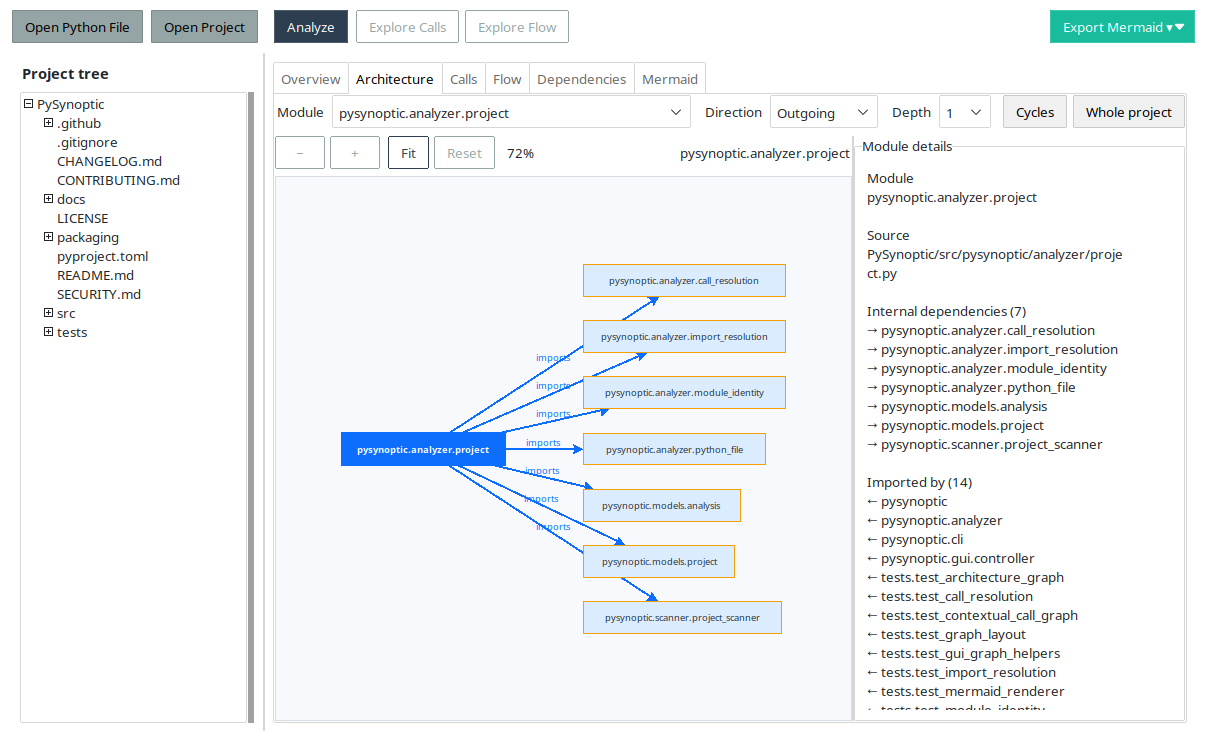
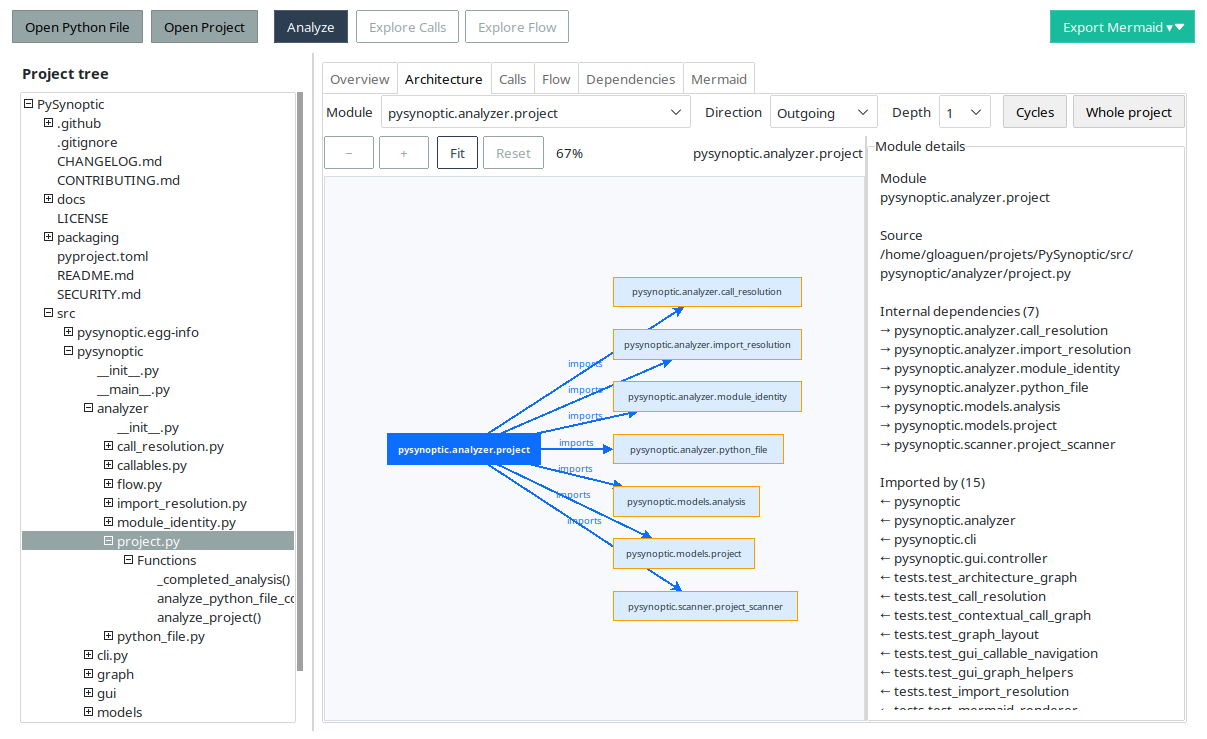
docs: refresh v0.1.0 screenshots

Changed region(s): [[0.0, 0.0934, 0.6744, 0.9959], [0.5518, 0.1867, 0.9503, 0.9648]]

diff --git a/README.md b/README.md
@@ -85,8 +85,8 @@ references remain visible as diagnostics rather than speculative links.
 Flow explains the structure inside one callable. It represents `if`/`else`,
 `for`/`while`, `try`/`except`/`finally`, `break`, `continue`, `raise`, `return`,
 and call steps. Labeled transitions distinguish branches, loop backs, exception
-paths, and exits. This view of `_add_argument_bindings()` exposes two loops and
-a conditional without expanding the rest of the project.
+paths, and exits. This view of `analyze_project()` connects its selected tree
+entry and call context to the loop and exception path inside the function.
 
 ## Standalone Python files
 
